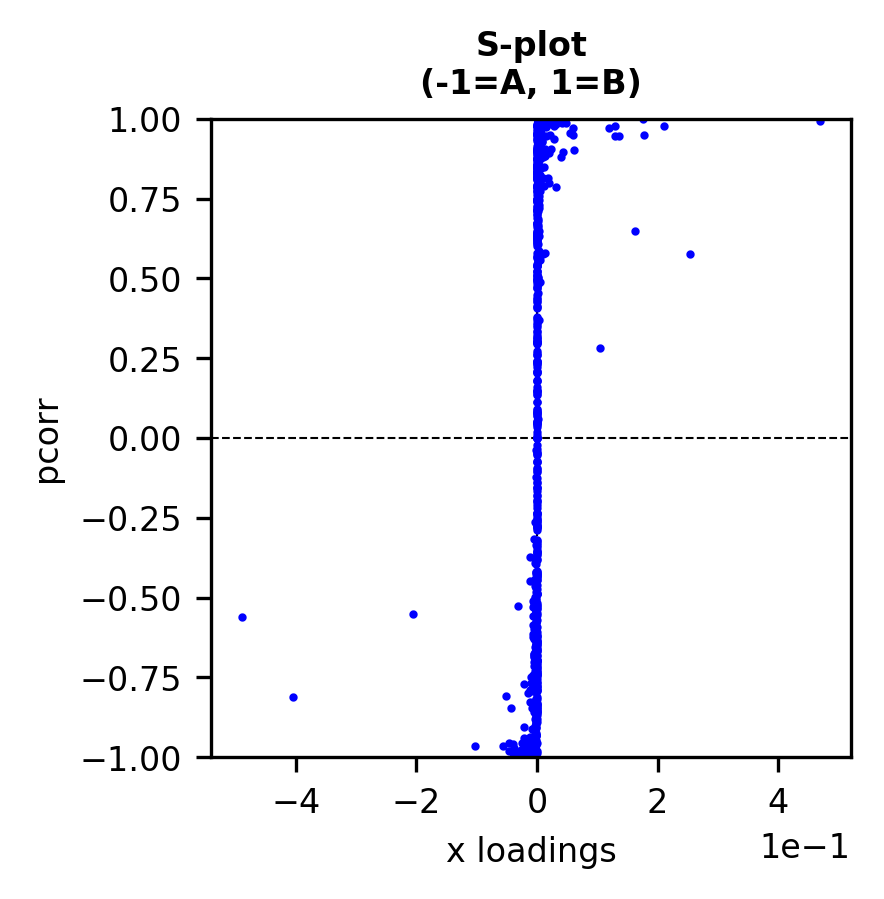
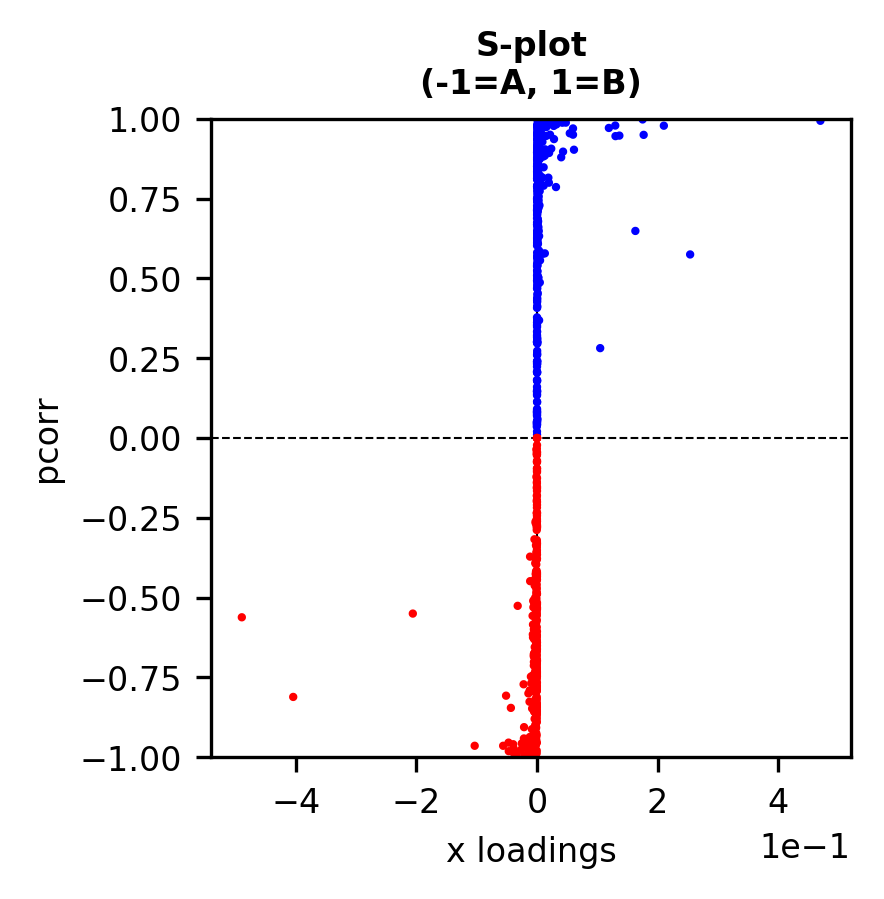
add colors to S-plot

Changed region(s): [[0.5192, 0.4672, 0.6109, 0.8409], [0.6109, 0.1557, 0.6414, 0.218], [0.6719, 0.1246, 0.7025, 0.1557]]

diff --git a/lipydomics/plotting.py b/lipydomics/plotting.py
@@ -209,6 +209,14 @@ splot_plsda_pcorr_bygroup
     x = dataset.stats['PLS-DA_{}_loadings_{}'.format('-'.join(group_names), nrm)].T[0]
     y = dataset.stats['2-group-corr_{}_{}'.format('-'.join(group_names), nrm)]
 
+    # color the positive and negative values differently
+    c = []
+    for _y in y:
+        if _y > 0:
+            c.append('b')
+        else:
+            c.append('r')
+
     # make the plot
     fig = plt.figure(figsize=(3, 3))
     ax = fig.add_subplot(111)
@@ -216,7 +224,7 @@ splot_plsda_pcorr_bygroup
     ax.axvline(lw=0.5, c='k', ls='--', zorder=0)
     ax.axhline(lw=0.5, c='k', ls='--', zorder=0)
     
-    ax.scatter(x, y, c='b', s=1)
+    ax.scatter(x, y, c=c, s=1)
 
     ax.set_ylim([-1, 1])
     ax.set_xlabel('x loadings', fontsize=8)
